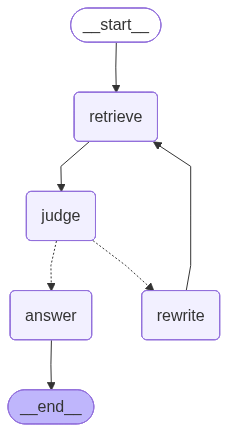
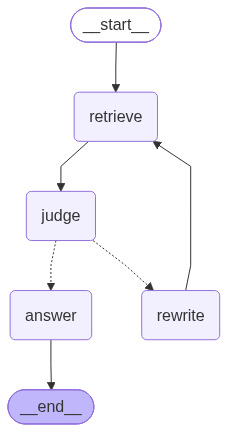
new code added

diff --git a/Edureka_Adv_Agentic_Ai/Multi_hop_Advance/Multi_hop_retrieval.py b/Edureka_Adv_Agentic_Ai/Multi_hop_Advance/Multi_hop_retrieval.py
@@ -3,16 +3,15 @@ from langchain_core.documents import Document
 import os
 from dotenv import load_dotenv
 from langchain_google_genai import ChatGoogleGenerativeAI
-from langchain_chroma import Chroma
 from langchain_google_genai import GoogleGenerativeAIEmbeddings
 from langchain_google_genai import ChatGoogleGenerativeAI
 from langchain_core.tools import tool
 from langgraph.graph import StateGraph, START, END
 from langchain_core.messages import HumanMessage
-from langchain_community.document_loaders import PyPDFLoader
-from langchain_text_splitters import RecursiveCharacterTextSplitter
 from langchain_groq import ChatGroq
+from data_ingestion import call_data_inge
 from langchain_huggingface import HuggingFaceEmbeddings
+from langchain_chroma import Chroma
 
 load_dotenv()
 
@@ -25,64 +24,52 @@ llm = ChatGroq(
     model="llama-3.3-70b-versatile"
 )
 
+# vectorsto = call_data_inge()
+# retriever = vectorsto.as_retriever(search_kwargs={"k": 4})
+
 embeddings = HuggingFaceEmbeddings(
     model_name="sentence-transformers/all-MiniLM-L6-v2"
 )
 
-path = "docker.pdf"
+ai_agent_db = Chroma(
+                    persist_directory="./db/ai_agent",
+                    embedding_function=embeddings
+)
 
-def document_load(path):
-    try:
-        loader = PyPDFLoader(path)
-        documents = loader.load()
-        print("document load successfully")
+docker_db = Chroma(
+                    persist_directory="./db/docker",
+                    embedding_function=embeddings
+)
 
-        return documents
-    except Exception as e:
-        print(f"load documents Error : {e}")
+aws_db = Chroma(
+                    persist_directory="./db/aws",
+                    embedding_function=embeddings
+)
 
-def vector_st(documents):
+langgraph_db = Chroma(
+                    persist_directory="./db/langgraph",
+                    embedding_function=embeddings
+)
 
-    try:
-        splitter = RecursiveCharacterTextSplitter(
-            chunk_size = 500,
-            chunk_overlap=150
-        )
+retrievers = {
 
-        chunks = splitter.split_documents(documents)
+    "docker": docker_db.as_retriever(
+        search_kwargs={"k":2}
+    ),
 
-        print(len(chunks))
+    "aws": aws_db.as_retriever(
+        search_kwargs={"k":2}
+    ),
 
+    "kubernetes": ai_agent_db.as_retriever(
+        search_kwargs={"k":2}
+    ),
 
-        if os.path.exists("./db"):
-            vectorstore = Chroma(
-                persist_directory="./db",
-                embedding_function=embeddings
-            )
-        else:
-            vectorstore = Chroma.from_documents(
-                documents = chunks,
-                persist_directory="./db",
-                embedding=embeddings
-            )
-        
-        print("documents store to vectore store successfuly")
+    "linux": langgraph_db.as_retriever(
+        search_kwargs={"k":2}
+    ),
+}
 
-        return vectorstore
-    
-    except Exception as e:
-        print(f"vector store Error : {e}")
-
-text = document_load(path=path)
-vectorsto = vector_st(text)
-retriever = vectorsto.as_retriever(search_kwargs={"k": 4})
-
-# query = "what is docker"
-# ret = retriever.invoke(query)
-
-# for i in ret:
-#     print("="*60)
-#     print(i.page_content)
 from pydantic import BaseModel, Field
 
 class JudgeResponse(BaseModel):
@@ -97,6 +84,8 @@ class JudgeResponse(BaseModel):
 class GraphState(TypedDict):
 
     question: str
+
+    visited_collections: list[str]
 
     current_query: str
 
@@ -113,6 +102,8 @@ class GraphState(TypedDict):
     missing_info: str
 
     judge_reason: str
+
+    collection: str
 
 @tool
 def retrieve_documents(query: str) -> str:
@@ -189,7 +180,9 @@ def retrieve_node(state: GraphState):
     print("===============Retrieval Node===============")
     print(f"\nSearching: {state['current_query']}")
 
-    docs = retrieve_documents.invoke(state["current_query"])
+    retriver = retrievers[state["collection"]]
+
+    docs = retriver.invoke(state["current_query"])
 
     print(f"Retrieved {len(docs)} documents")
 

diff --git a/Edureka_Adv_Agentic_Ai/Multi_hop_Advance/data_ingestion.py b/Edureka_Adv_Agentic_Ai/Multi_hop_Advance/data_ingestion.py
@@ -1,0 +1,61 @@
+from langchain_community.document_loaders import PyPDFLoader
+from langchain_text_splitters import RecursiveCharacterTextSplitter
+from langchain_huggingface import HuggingFaceEmbeddings
+from langchain_chroma import Chroma
+import os
+from pathlib import Path
+
+# path = "docker.pdf"
+
+embeddings = HuggingFaceEmbeddings(
+    model_name="sentence-transformers/all-MiniLM-L6-v2" 
+)
+
+pdf_folder = Path("all_pdf")
+print(pdf_folder)
+
+def create_collection(pdf_folder, persist_dir: str, embedding):
+    documents = []
+    try:
+        for pdf in pdf_folder.glob("*.pdf"):
+            print(f"name of pdf : {pdf.name}")
+            loader = PyPDFLoader(str(pdf))
+            docs = loader.load()
+
+            for doc in docs:
+                doc.metadata["book"] = pdf.stem
+
+            documents.extend(docs)
+
+            print(len(documents))
+            print("document load successfully")
+
+        splitter = RecursiveCharacterTextSplitter(
+                chunk_size = 500,
+                chunk_overlap=150
+                )
+
+        chunks = splitter.split_documents(documents)       
+        print("document chunks created: ",len(chunks))
+
+        if not os.path.exists(persist_dir):
+            vectorstore = Chroma.from_documents(
+                documents = chunks,
+                persist_directory=persist_dir,
+                embedding=embedding
+            )
+        else:
+            print("already vector db created for this pdf")
+
+        return vectorstore
+        
+    except Exception as e:
+        print(f"load documents Error : {e}")
+
+ai_agent_vs = create_collection(Path("ai_agent"), "./db/ai_agent", embeddings)
+
+docker_vs = create_collection(Path("aws"), "./db/aws", embeddings)
+
+aws_vs = create_collection(Path("docker"), "./db/docker", embeddings)
+
+langgraph_vs = create_collection(Path("langgraph"), "./db/langgraph", embeddings)